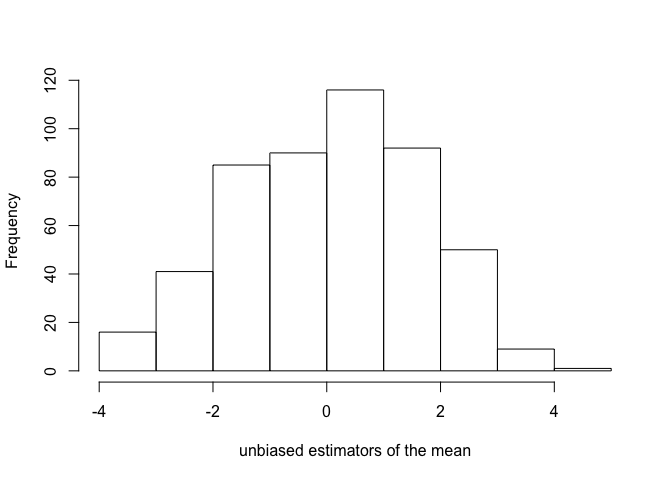
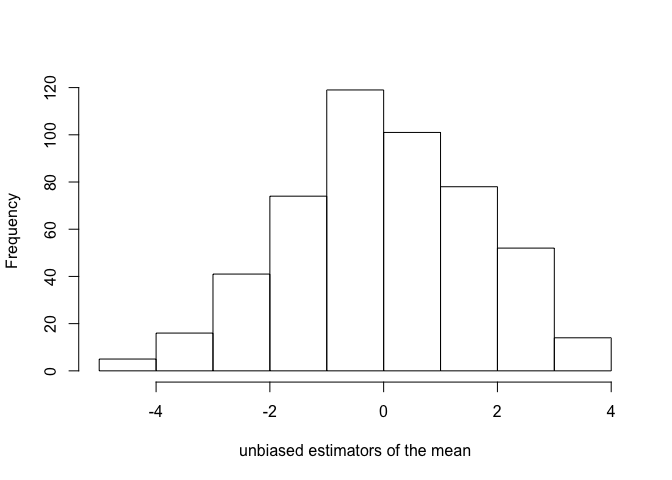
added univariate reflection-maximal coupling

diff --git a/README.md b/README.md
@@ -91,28 +91,29 @@ The following code
 library(unbiasedmcmc)
 set.seed(1)
 # target distribution
-target <- function(x){
-  evals <- log(0.5) + dnorm(x, mean = c(-4, 4), sd = 1, log = TRUE)
-  return(max(evals) + log(sum(exp(evals - max(evals)))))
+target <- function(x) {
+    evals <- log(0.5) + dnorm(x, mean = c(-4, 4), sd = 1, log = TRUE)
+    return(max(evals) + log(sum(exp(evals - max(evals)))))
 }
-# get MH kernels with proposal variance equal to 4 
+# get MH kernels with proposal variance equal to 4
 kernels <- get_mh_kernels(target, 4)
 # Markov kernel of the chain
 single_kernel <- kernels$single_kernel
 # Markov kernel of the coupled chain
 coupled_kernel <- kernels$coupled_kernel
 # initial distribution, towards the right-most mode of the target
-rinit <- function(){
-  chain_state <- rnorm(1, mean = 3, sd = 2)
-  current_pdf <- target(chain_state)
-  return(list(chain_state = chain_state, current_pdf = current_pdf))
+rinit <- function() {
+    chain_state <- rnorm(1, mean = 3, sd = 2)
+    current_pdf <- target(chain_state)
+    return(list(chain_state = chain_state, current_pdf = current_pdf))
 }
 
 # draw meeting times
 nrep <- 500
 meetingtimes <- rep(0, nrep)
-for (irep in 1:nrep){
-  meetingtimes[irep] <- sample_meetingtime(single_kernel, coupled_kernel, rinit)$meetingtime
+for (irep in 1:nrep) {
+    meetingtimes[irep] <- sample_meetingtime(single_kernel, coupled_kernel, 
+        rinit)$meetingtime
 }
 # plot histogram of meeting times
 hist(meetingtimes, xlab = "meeting time", main = "")
@@ -123,26 +124,30 @@ hist(meetingtimes, xlab = "meeting time", main = "")
 ``` r
 # now run coupled chain, with lag of 500, time horizon m = 2000
 coupledchains <- list()
-for (irep in 1:nrep){
-  coupledchains[[irep]] <- sample_coupled_chains(single_kernel, coupled_kernel, rinit, m = 2000, lag = 500)
+for (irep in 1:nrep) {
+    coupledchains[[irep]] <- sample_coupled_chains(single_kernel, coupled_kernel, 
+        rinit, m = 2000, lag = 500)
 }
 
 # approximate target via histogram, with k = 500, m = 2000
 hist1 <- histogram_c_chains(coupledchains, 1, k = 500, m = 2000, nclass = 100)
 # plot approximation in black segments
-plot(x = hist1$mids, y = hist1$proportions / hist1$width, type = "l", xlab = "x", ylab = "density")
-segments(x0 = hist1$mids, x1 = hist1$mids, y0 = rep(0, length(hist1$proportions)), y1 = hist1$proportions / hist1$width)
-curve(sapply(x, function(v) exp(target(v))), add = TRUE, col = "orange", lty = 1, lwd = 2)
+plot(x = hist1$mids, y = hist1$proportions/hist1$width, type = "l", xlab = "x", 
+    ylab = "density")
+segments(x0 = hist1$mids, x1 = hist1$mids, y0 = rep(0, length(hist1$proportions)), 
+    y1 = hist1$proportions/hist1$width)
+curve(sapply(x, function(v) exp(target(v))), add = TRUE, col = "orange", lty = 1, 
+    lwd = 2)
 ```
 
 ![](README_files/figure-gfm/usage-2.png)<!-- -->
 
 ``` r
-# average cost per estimator, in units of "calls to Markov kernels"
+# average cost per estimator, in units of 'calls to Markov kernels'
 mean(sapply(coupledchains, function(x) x$cost))
 ```
 
-    ## [1] 2062.668
+    ## [1] 2072.788
 
 We can see that in average, the cost of each estimator is not much more
 than if we had just run the MCMC algorithm for “m” steps.
@@ -156,17 +161,19 @@ theorem as the number of independent estimators goes to
 infinity.
 
 ``` r
-estimators <- sapply(coupledchains, function(c) H_bar(c, h = function(x) x, k = 500, m = 2000))
+estimators <- sapply(coupledchains, function(c) H_bar(c, h = function(x) x, 
+    k = 500, m = 2000))
 hist(estimators, xlab = "unbiased estimators of the mean", main = "")
 ```
 
 ![](README_files/figure-gfm/estimators-1.png)<!-- -->
 
 ``` r
-cat("95% confidence interval for the mean:", mean(estimators), "+/-", 1.96 * sd(estimators)/sqrt(length(estimators)), "\n")
+cat("95% confidence interval for the mean:", mean(estimators), "+/-", 1.96 * 
+    sd(estimators)/sqrt(length(estimators)), "\n")
 ```
 
-    ## 95% confidence interval for the mean: 0.03452407 +/- 0.1422636
+    ## 95% confidence interval for the mean: 5.494271e-05 +/- 0.1466475
 
 Compared to usual MCMC estimators justified as the number of iterations
 goes to infinity, the proposed estimators are unbiased, and thus their
